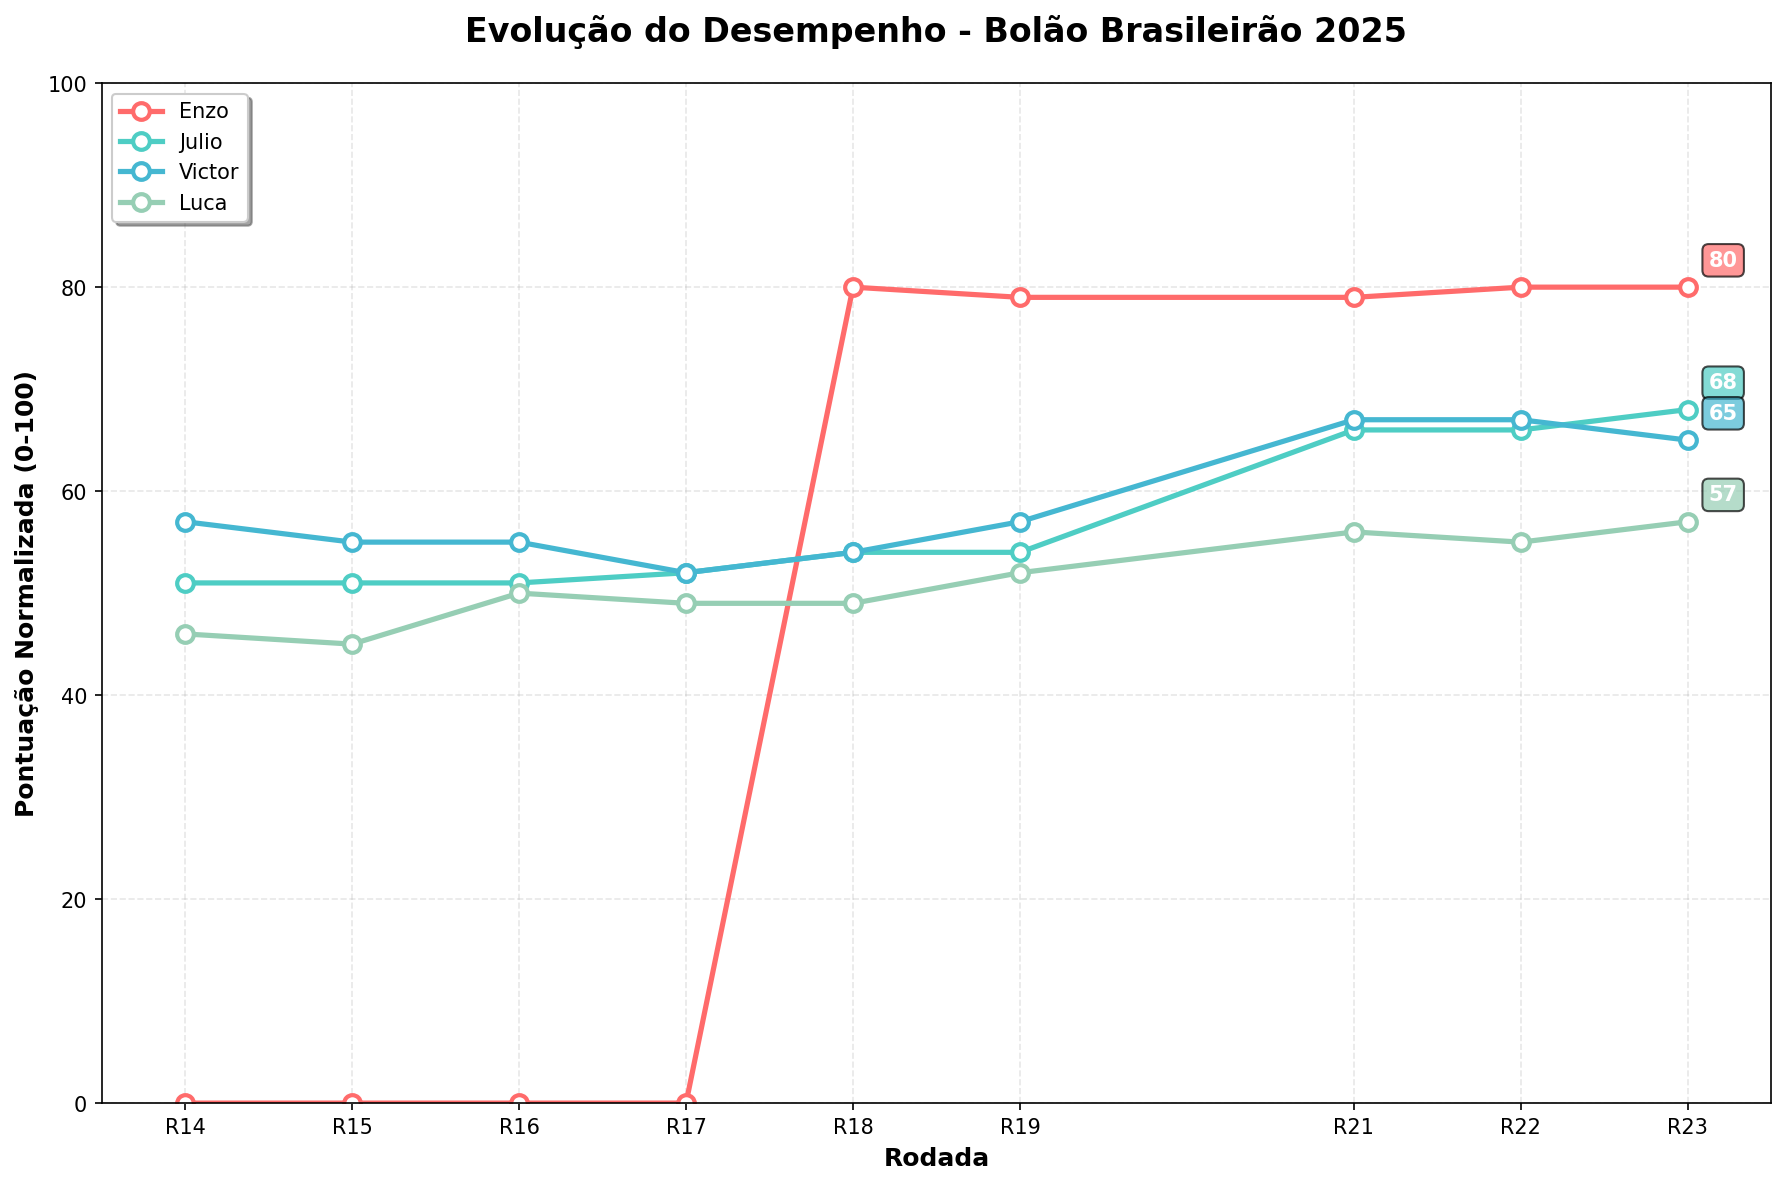
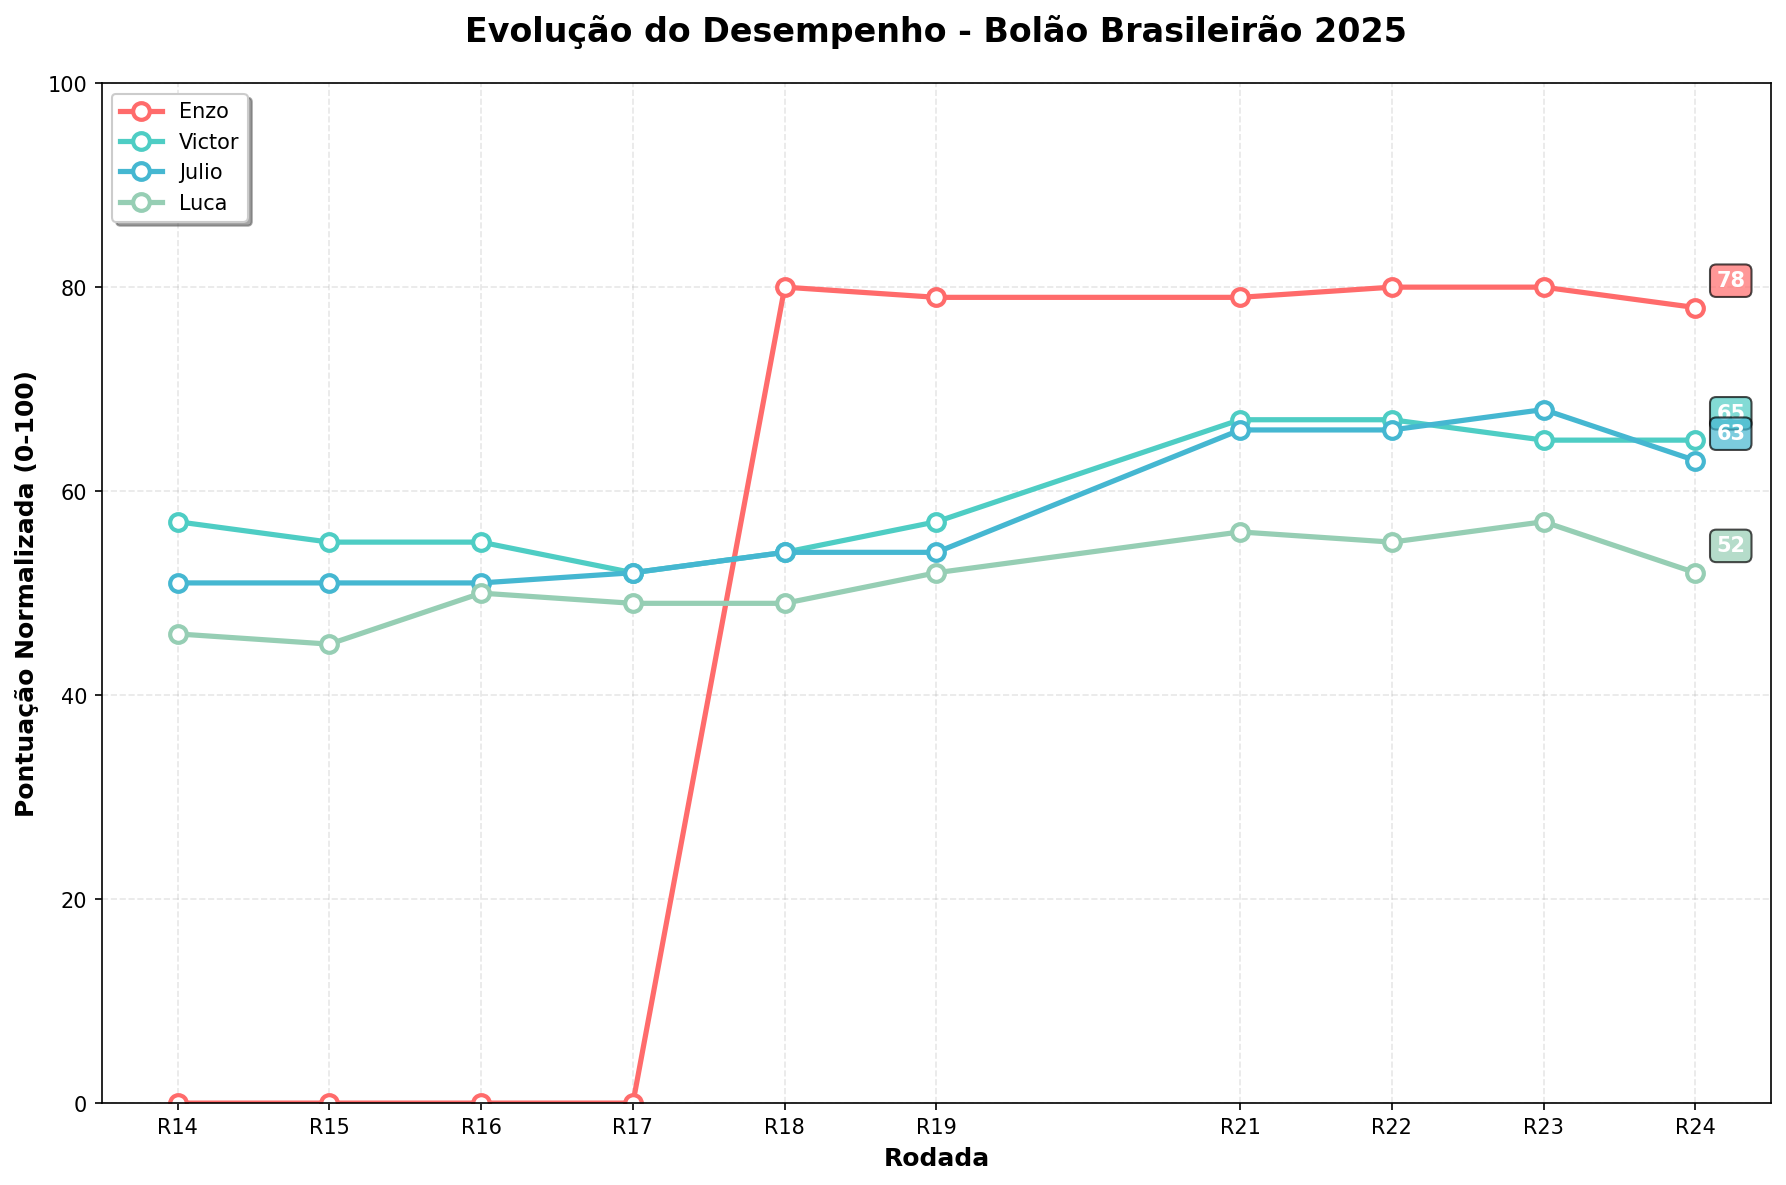
Atualizacao automatica - 26/09/2025 10:35:59,22

diff --git a/README.md b/README.md
@@ -2,60 +2,61 @@
 
 ## 🏆 Resultados Atuais
 
-**Última Atualização:** 2025-09-17 21:54:43
+**Última Atualização:** 2025-09-26 10:35:58
 
-| Time | Real | Enzo | Julio | Victor | Luca |
+| Time | Real | Enzo | Victor | Julio | Luca |
 |------|------|------|------|------|------|
-| Flamengo | 1 | 2°(19p) | 1°(20p) | 2°(19p) | 1°(20p) |
-| Cruzeiro | 2 | 1°(19p) | 5°(17p) | 14°(8p) | 11°(11p) |
-| Palmeiras | 3 | 3°(20p) | 4°(19p) | 5°(18p) | 2°(19p) |
-| Mirassol | 4 | 4°(20p) | 18°(6p) | 8°(16p) | 12°(12p) |
-| Botafogo | 5 | 7°(18p) | 7°(18p) | 3°(18p) | 5°(20p) |
-| Bahia | 6 | 8°(18p) | 6°(20p) | 4°(18p) | 7°(19p) |
-| São Paulo | 7 | 14°(13p) | 8°(19p) | 9°(18p) | 9°(18p) |
-| Red Bull Bragantino | 8 | 6°(18p) | 16°(12p) | 17°(11p) | 15°(13p) |
-| Corinthians | 9 | 11°(18p) | 3°(14p) | 7°(18p) | 6°(17p) |
-| Fluminense | 10 | 9°(19p) | 10°(20p) | 6°(16p) | 13°(17p) |
-| Ceará | 11 | 13°(18p) | 11°(20p) | 13°(18p) | 18°(13p) |
-| Internacional | 12 | 5°(13p) | 2°(10p) | 1°(9p) | 3°(11p) |
-| Atlético-MG | 13 | 12°(19p) | 9°(16p) | 10°(17p) | 8°(15p) |
-| Grêmio | 14 | 10°(16p) | 15°(19p) | 11°(17p) | 14°(20p) |
-| Vasco da Gama | 15 | 16°(19p) | 14°(19p) | 16°(19p) | 17°(18p) |
-| Santos | 16 | 17°(19p) | 13°(17p) | 12°(16p) | 4°(8p) |
-| Vitória | 17 | 19°(18p) | 19°(18p) | 18°(19p) | 20°(17p) |
-| Juventude | 18 | 18°(20p) | 12°(14p) | 15°(17p) | 19°(19p) |
-| Fortaleza | 19 | 15°(16p) | 17°(18p) | 20°(19p) | 10°(11p) |
-| Sport | 20 | 20°(20p) | 20°(20p) | 19°(19p) | 16°(16p) |
-| **TOTAL** | | **360** | **336** | **330** | **314** |
+| Flamengo | 1 | 2°(19p) | 2°(19p) | 1°(20p) | 1°(20p) |
+| Cruzeiro | 2 | 1°(19p) | 14°(8p) | 5°(17p) | 11°(11p) |
+| Palmeiras | 3 | 3°(20p) | 5°(18p) | 4°(19p) | 2°(19p) |
+| Mirassol | 4 | 4°(20p) | 8°(16p) | 18°(6p) | 12°(12p) |
+| Botafogo | 5 | 7°(18p) | 3°(18p) | 7°(18p) | 5°(20p) |
+| Bahia | 6 | 8°(18p) | 4°(18p) | 6°(20p) | 7°(19p) |
+| São Paulo | 7 | 14°(13p) | 9°(18p) | 8°(19p) | 9°(18p) |
+| Fluminense | 8 | 9°(19p) | 6°(18p) | 10°(18p) | 13°(15p) |
+| Red Bull Bragantino | 9 | 6°(17p) | 17°(12p) | 16°(13p) | 15°(14p) |
+| Corinthians | 10 | 11°(19p) | 7°(17p) | 3°(13p) | 6°(16p) |
+| Grêmio | 11 | 10°(19p) | 11°(20p) | 15°(16p) | 14°(17p) |
+| Ceará | 12 | 13°(19p) | 13°(19p) | 11°(19p) | 18°(14p) |
+| Vasco da Gama | 13 | 16°(17p) | 16°(17p) | 14°(19p) | 17°(16p) |
+| Internacional | 14 | 5°(11p) | 1°(7p) | 2°(8p) | 3°(9p) |
+| Santos | 15 | 17°(18p) | 12°(17p) | 13°(18p) | 4°(9p) |
+| Atlético-MG | 16 | 12°(16p) | 10°(14p) | 9°(13p) | 8°(12p) |
+| Vitória | 17 | 19°(18p) | 18°(19p) | 19°(18p) | 20°(17p) |
+| Juventude | 18 | 18°(20p) | 15°(17p) | 12°(14p) | 19°(19p) |
+| Fortaleza | 19 | 15°(16p) | 20°(19p) | 17°(18p) | 10°(11p) |
+| Sport | 20 | 20°(20p) | 19°(19p) | 20°(20p) | 16°(16p) |
+| **TOTAL** | | **356** | **330** | **326** | **304** |
 
 ### 🏅 Classificação Final (pontuação normalizada 0-100)
 
-🥇 **Enzo**: 80 pontos
-🥈 **Julio**: 68 pontos
-🥉 **Victor**: 65 pontos
-4. **Luca**: 57 pontos
+🥇 **Enzo**: 78 pontos
+🥈 **Victor**: 65 pontos
+🥉 **Julio**: 63 pontos
+4. **Luca**: 52 pontos
 
 ### 📈 Histórico de Desempenho
 
 ![Gráfico de Performance](performance_chart.png)
 
-| Rodada | Enzo | Julio | Victor | Luca |
+| Rodada | Enzo | Victor | Julio | Luca |
 |-------|-------|-------|-------|-------|
-| R14 | 0 | 51 | 57 | 46 |
-| R15 | 0 | 51 | 55 | 45 |
-| R16 | 0 | 51 | 55 | 50 |
+| R14 | 0 | 57 | 51 | 46 |
+| R15 | 0 | 55 | 51 | 45 |
+| R16 | 0 | 55 | 51 | 50 |
 | R17 | 0 | 52 | 52 | 49 |
 | R18 | 80 | 54 | 54 | 49 |
-| R19 | 79 | 54 | 57 | 52 |
-| R21 | 79 | 66 | 67 | 56 |
-| R22 | 80 | 66 | 67 | 55 |
-| R23 | 80 | 68 | 65 | 57 |
+| R19 | 79 | 57 | 54 | 52 |
+| R21 | 79 | 67 | 66 | 56 |
+| R22 | 80 | 67 | 66 | 55 |
+| R23 | 80 | 65 | 68 | 57 |
+| R24 | 78 | 65 | 63 | 52 |
 
 **Tendência (últimas 2 medições):**
-- **Enzo**: ➡ =0
-- **Julio**: 📈 +2
-- **Victor**: 📉 -2
-- **Luca**: 📈 +2
+- **Enzo**: 📉 -2
+- **Victor**: ➡ =0
+- **Julio**: 📉 -5
+- **Luca**: 📉 -5
 
 ## 📖 Sobre o Projeto
 
